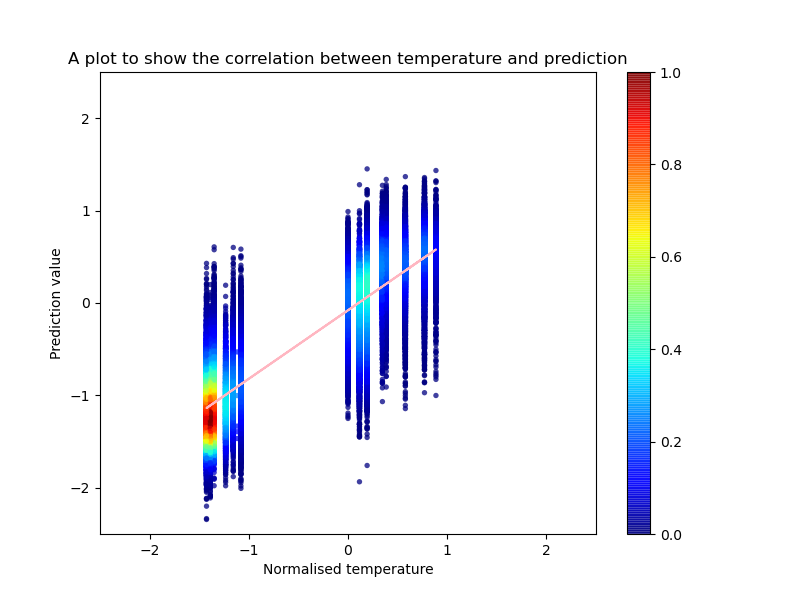
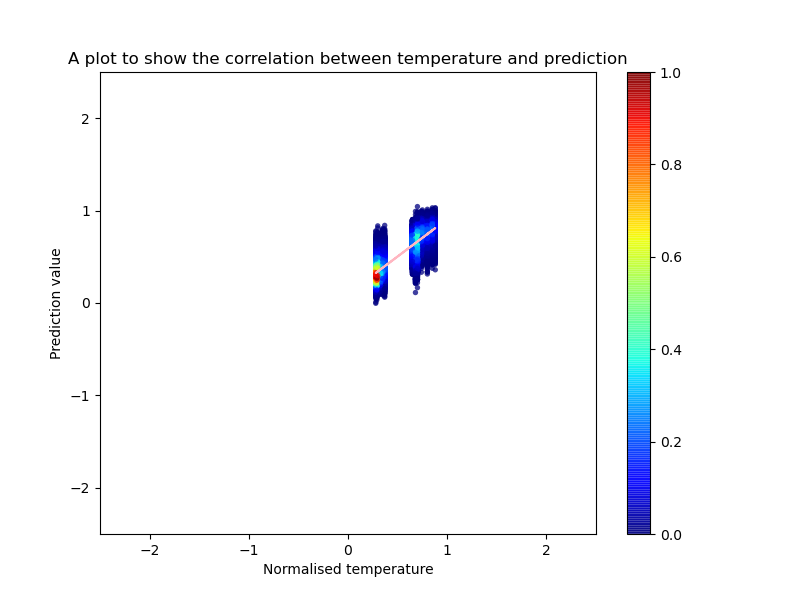
Added comment about usage of the script, updated normalised by 100 predictions correlation plot, added possibility to pass interval of MCC threshold as a command line argument.

Changed region(s): [[0.375, 0.27, 0.5625, 0.75], [0.25, 0.39, 0.3438, 0.87], [0.3438, 0.57, 0.375, 0.6]]

diff --git a/scripts/003/003_plot_correlation.py b/scripts/003/003_plot_correlation.py
@@ -1,5 +1,11 @@
 #!/usr/bin/env python3.7
 
+# A script that plots correlation plots for regressor inferences and
+# calculates correlation coefficients (Pearson, Spearman and Matthew's).
+
+# An example usage:
+# ./scripts/003/003_plot_correlation.py results/regressor/003/testing_4_real_and_predictions_normalised.tsv results/regressor/003/testing_4_real_vs_predictions_normalised.png 0.3 0.9
+
 import sys
 import os
 
@@ -46,9 +52,13 @@ print(df.corr(method="spearman"))
 print()
 
 # Printing Matthew's correlation coefficient
-thresholds = [ -1, -0.9, -0.8, -0.7, -0.6, -0.5, -0.4, -0.3, -0.2, -0.1, 0,
-               0.1, 0.2, 0.3, 0.4, 0.5, 0.6, 0.7, 0.8 ]
+thresholds = numpy.linspace(float(sys.argv[3]), float(sys.argv[4]),
+                            int((float(sys.argv[4])-float(sys.argv[3]))/0.1), 
+                            False)
+
 for threshold in thresholds:
-    print('Matthew\'s correlation coefficient (with prediction threshold '+str(threshold)+'): ')
-    print(calculate_MCC(x, y, real_threshold=threshold, prediction_threshold=threshold))
+    print('Matthew\'s correlation coefficient (with prediction threshold '+\
+          str(round(threshold, 2))+'): ')
+    print(calculate_MCC(x, y, real_threshold=threshold, 
+          prediction_threshold=threshold))
     print()
